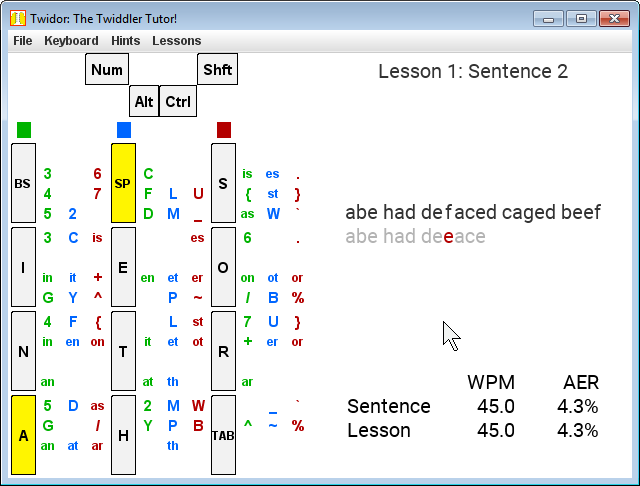
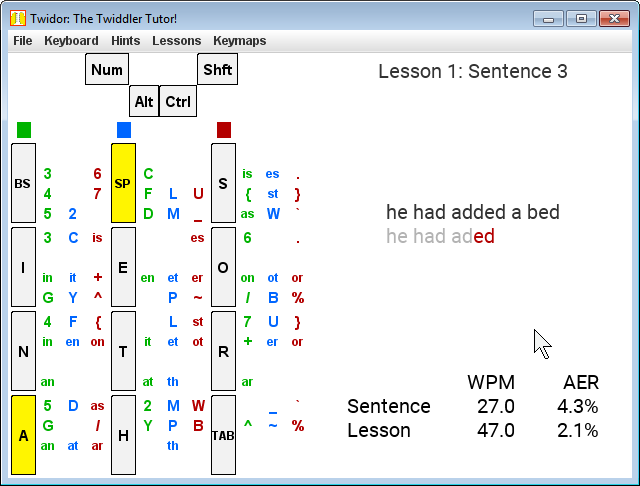
added Keymap menu with options: Backspice, Default_V5, TabSpace, and Typemax

diff --git a/src/TwidorMenu.java b/src/TwidorMenu.java
@@ -1,4 +1,4 @@
-/*
+/*  -*- indent-tabs-mode: t; tab-width: 4; c-basic-offset: 4 -*-
 Twidor: the twiddler typing tutor.
 Copyright (C) 2005	James Fusia
 Copyright (C) 2017	Carey Richard Murphey
@@ -108,7 +108,6 @@ public class TwidorMenu extends JMenuBar implements TwidorConstants {
 		menu.add(jmItem);
 		add(menu);
 
-
 		Lesson = new ButtonGroup();
 		lessonButtons = new Vector();
 		menu = new JMenu("Lessons");
@@ -122,6 +121,17 @@ public class TwidorMenu extends JMenuBar implements TwidorConstants {
 			lessonButtons.add(rbItem);
 			menu.add(rbItem);
 		}
+		add(menu);
+
+		menu = new JMenu("Keymaps");
+		jmItem = jmenuItem(KEYMAP_Backspice);
+		menu.add(jmItem);
+		jmItem = jmenuItem(KEYMAP_Default_V5);
+		menu.add(jmItem);
+		jmItem = jmenuItem(KEYMAP_TabSpace);
+		menu.add(jmItem);
+		jmItem = jmenuItem(KEYMAP_Typemax);
+		menu.add(jmItem);
 		add(menu);
 
 		if (bDEBUG) System.out.println("TwidorMenu: Finished Creating");

diff --git a/src/TwidorConstants.java b/src/TwidorConstants.java
@@ -1,4 +1,4 @@
-/*
+/*  -*- indent-tabs-mode: t; tab-width: 4; c-basic-offset: 4 -*-
 Twidor: the twiddler typing tutor.
 Copyright (C) 2005	James Fusia
 Copyright (C) 2017	Carey Richard Murphey
@@ -129,6 +129,12 @@ public interface TwidorConstants {
 	public boolean TWIDDLER_SHOW_THUMB = true;
 	public static final String TWIDDLER_MIRROR_THUMB_TEXT = "Horizontal Reverse Thumb Buttons";
 	public boolean TWIDDLER_MIRROR_THUMB = false;
+
+	// Kemap menu items. Filename is <name>.csv.
+	public static final String KEYMAP_Backspice = "Backspice";
+	public static final String KEYMAP_Default_V5 = "Default_V5";
+	public static final String KEYMAP_TabSpace = "TabSpace";
+	public static final String KEYMAP_Typemax = "Typemax";
 
 	public static final String MACRO_REGEXP = "\"\\w*\"";
 

diff --git a/src/Twidor.java b/src/Twidor.java
@@ -529,6 +529,15 @@ public class Twidor extends JFrame implements TwidorConstants {
 				}
 			}
                 }
+		else if ( (option.equals(KEYMAP_Backspice)) ||
+			  (option.equals(KEYMAP_Default_V5)) ||
+			  (option.equals(KEYMAP_TabSpace)) ||
+			  (option.equals(KEYMAP_Typemax)) )
+			{
+				setKeyMap(option + ".csv");
+				getTwiddlerPanel().setKeyMap(getKeyMap());
+				getTwiddlerPanel().reOrient();
+			}
 		else if (option.startsWith("Lesson")) {
 			setLesson(option);
 		}
